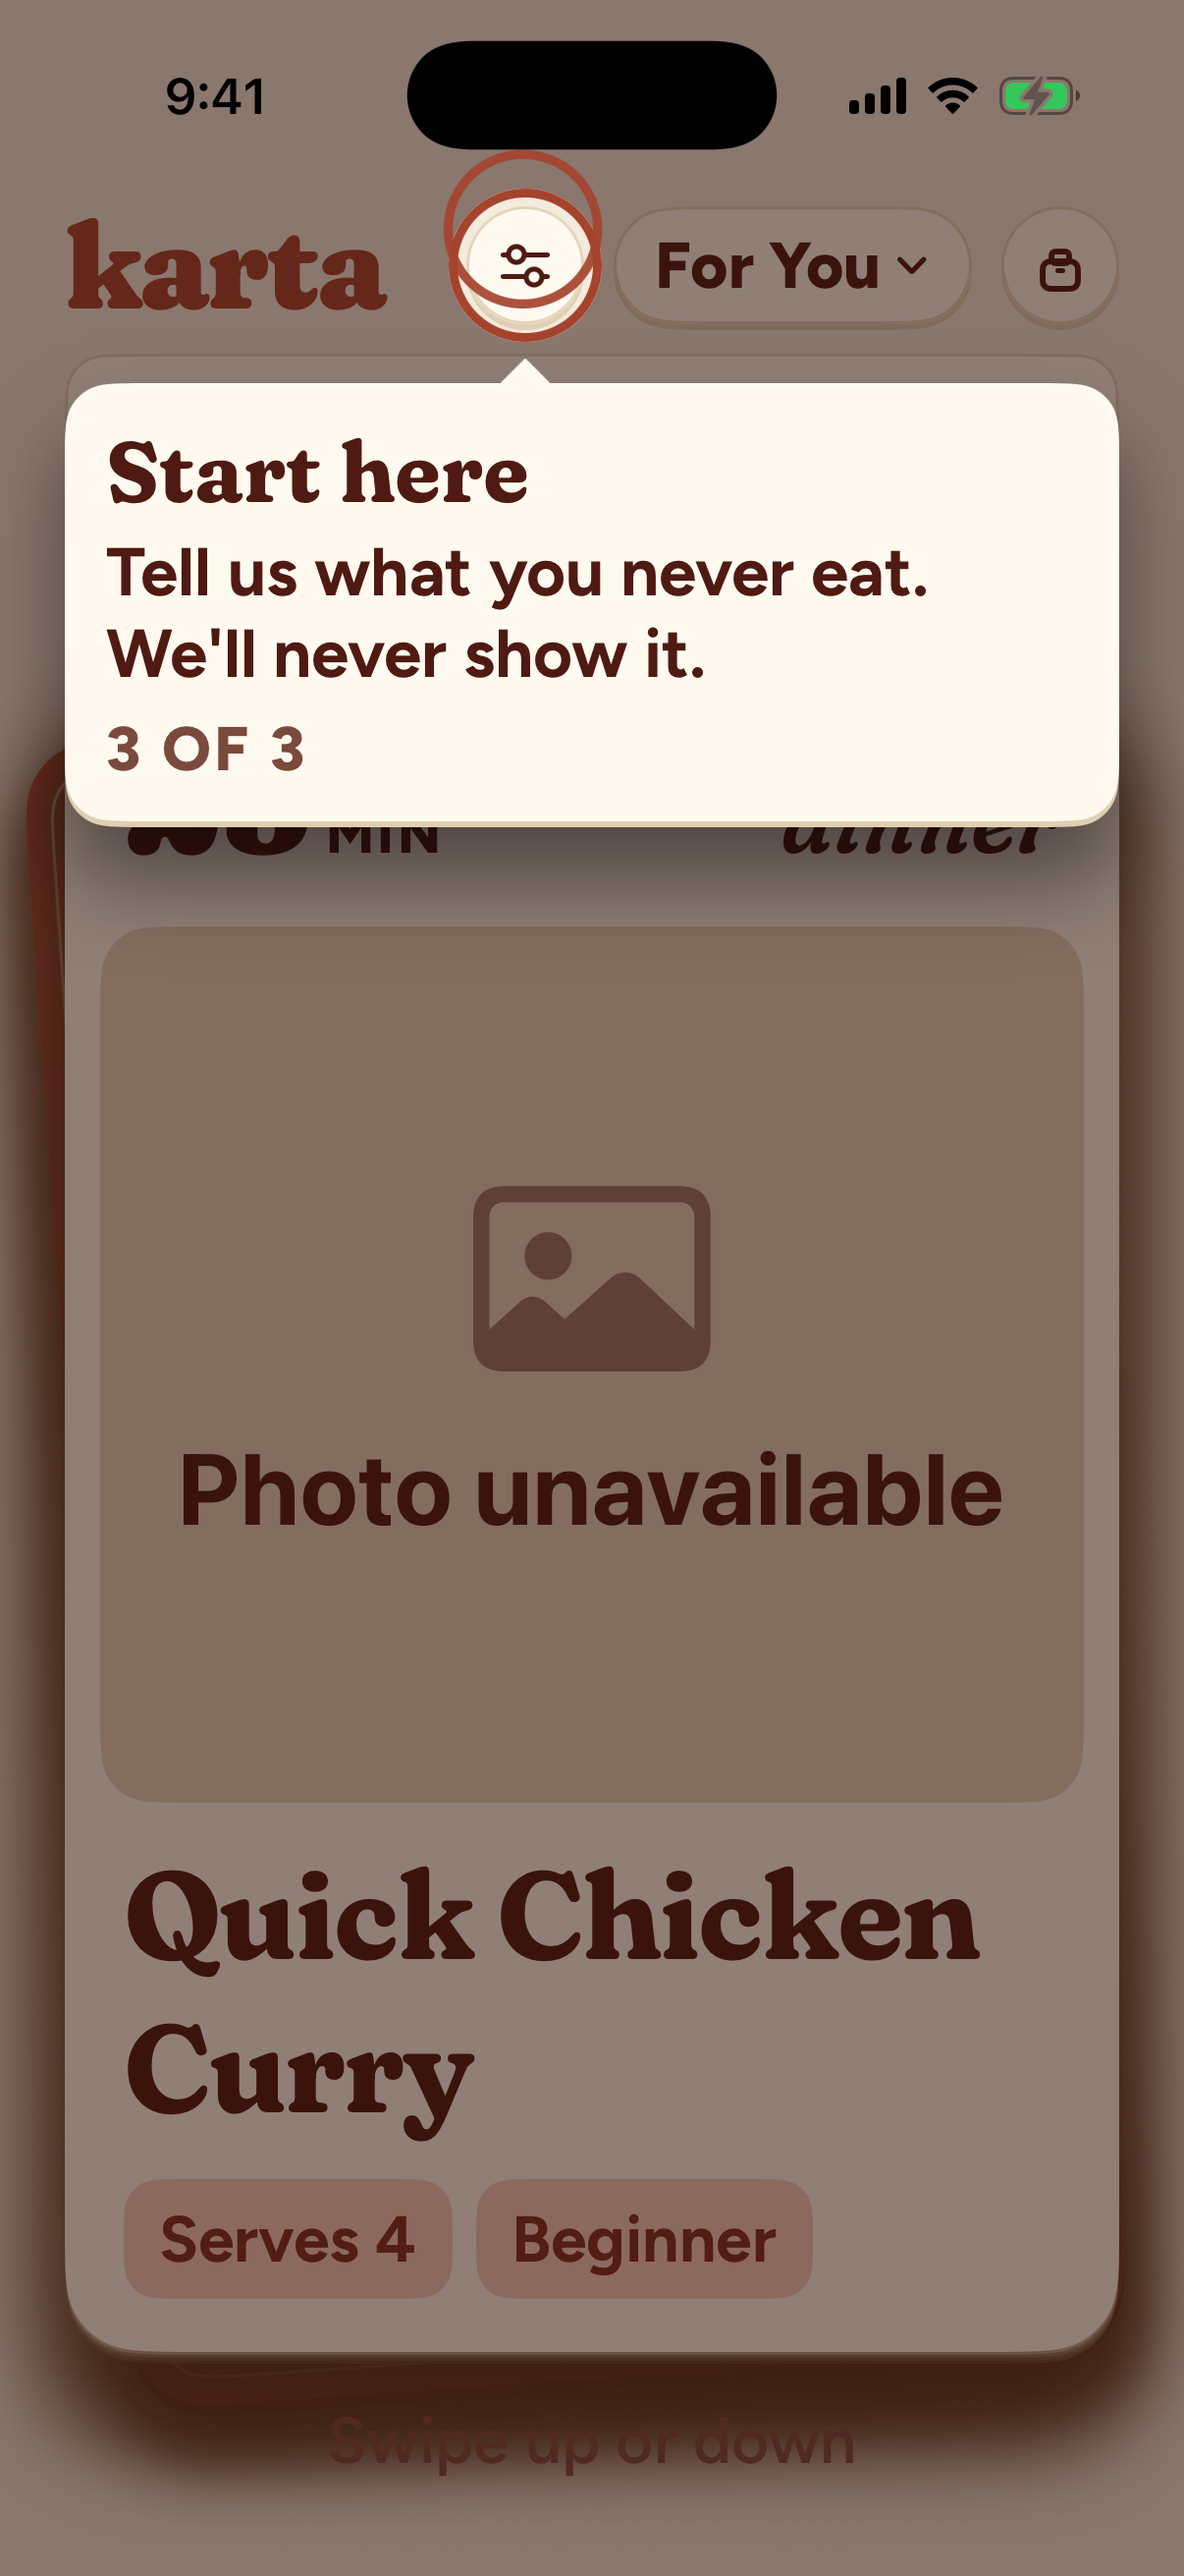
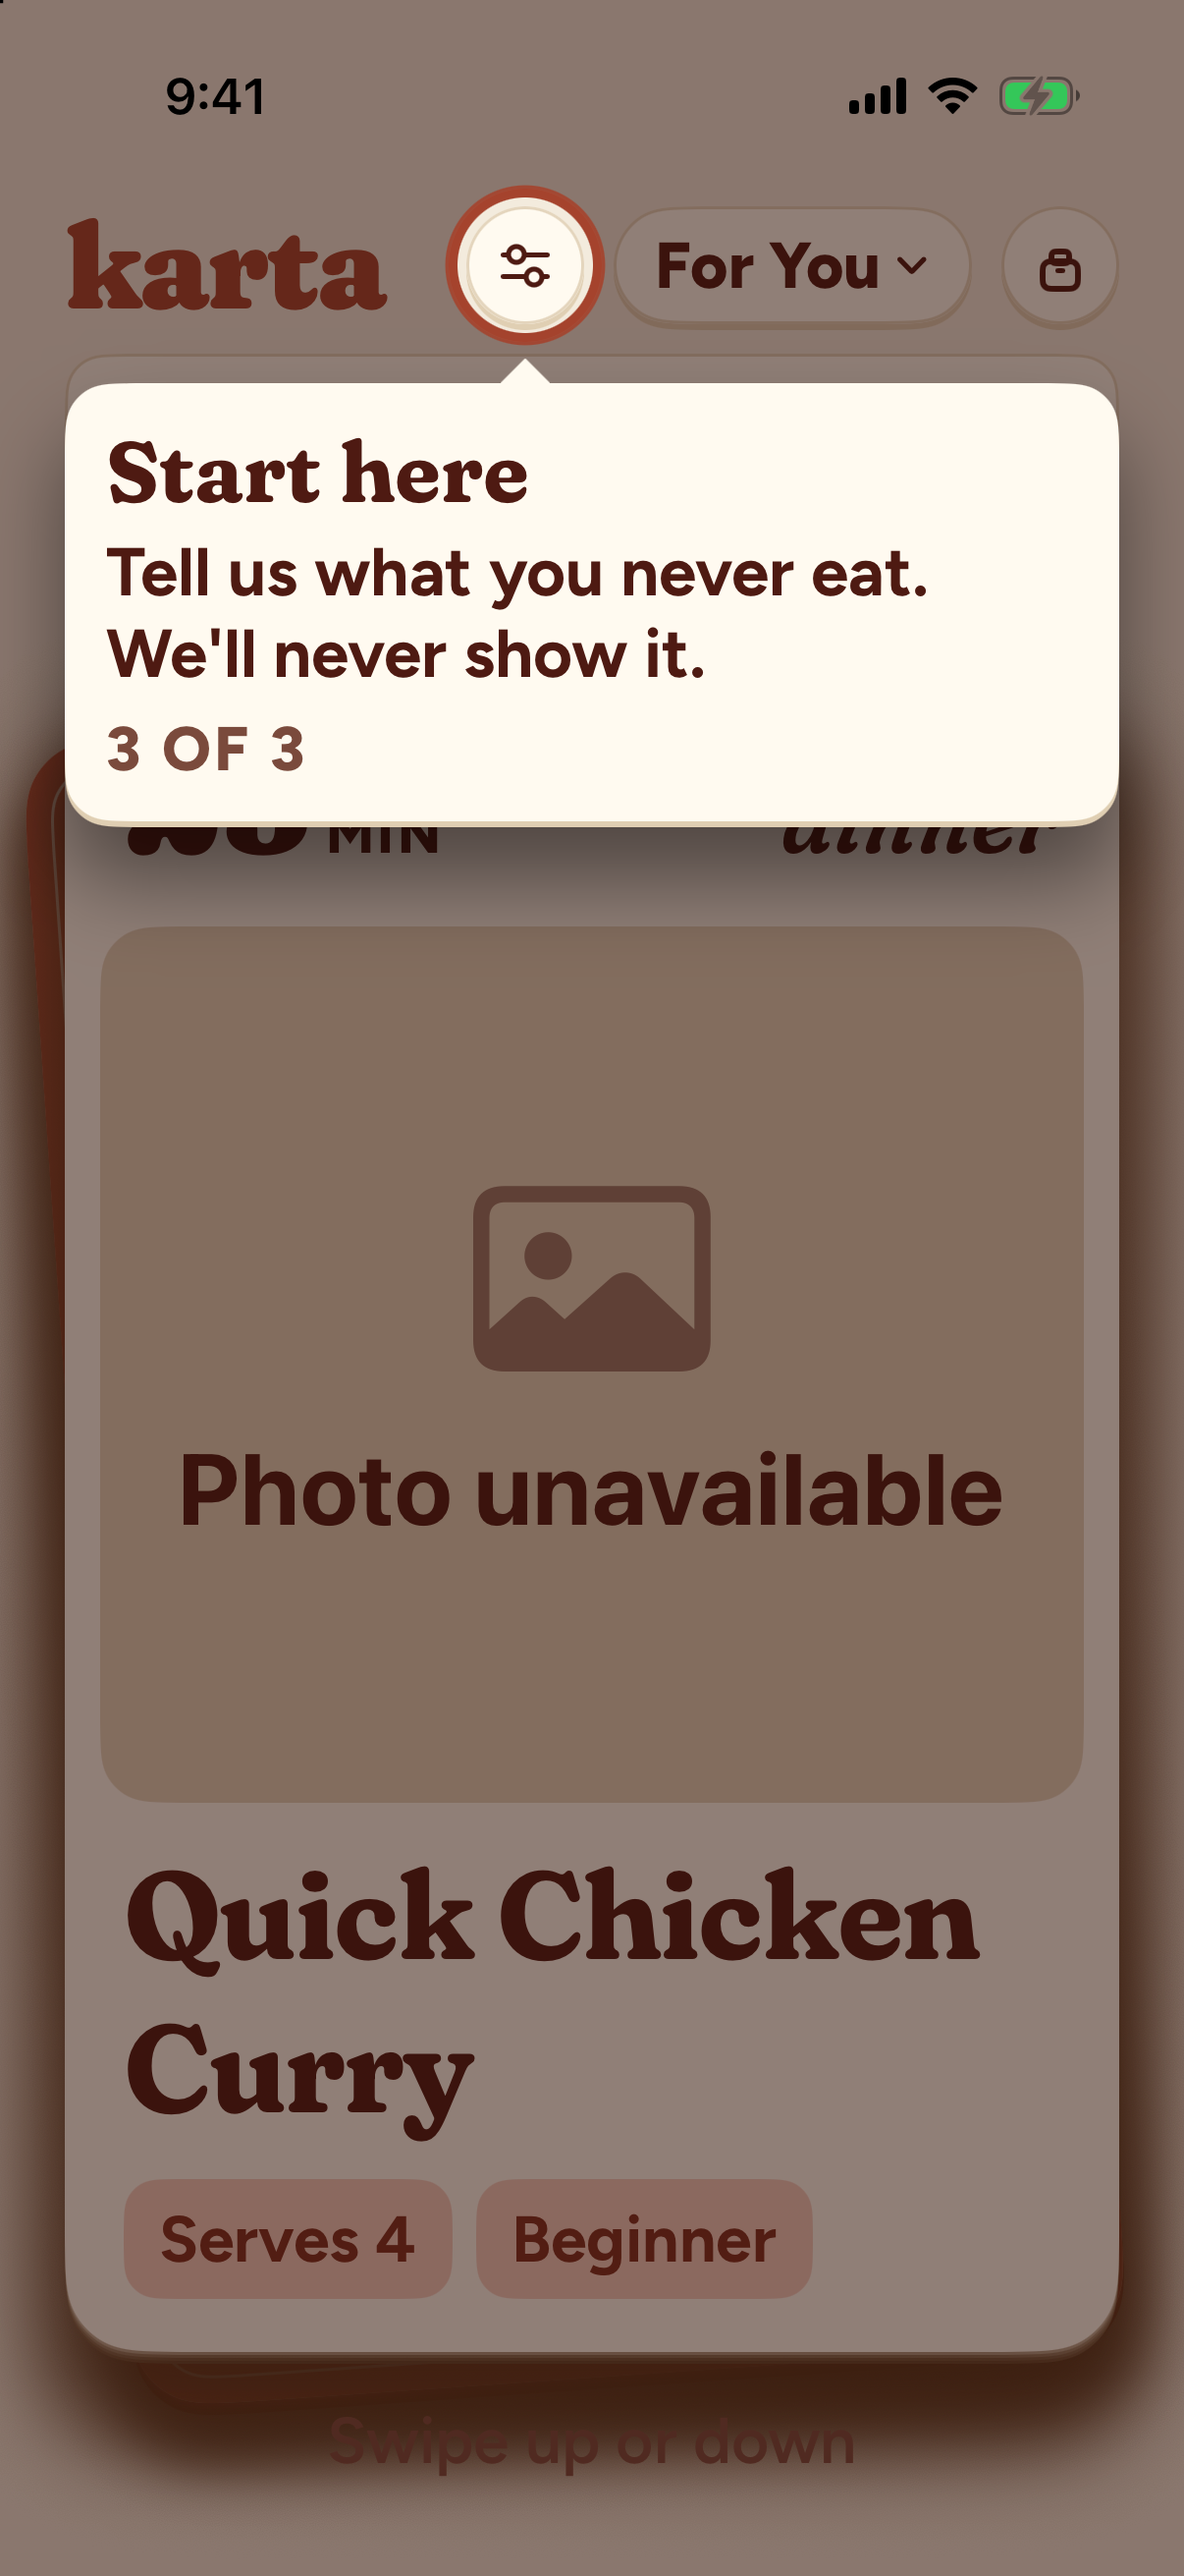
Retake tour stop-3 shots after the pulse fix; record tested SHA

Changed region(s): [[0.3375, 0.0, 0.675, 0.1236]]

diff --git a/Karta/Documentation/Issue172/README.md b/Karta/Documentation/Issue172/README.md
@@ -3,7 +3,7 @@
 Simulator: iPhone 17 (iOS simulator runtime from Xcode 27.0 RC;
 `/Applications/Xcode-27.0-RC.app`).
 Xcode: 27.0 (Release Candidate).
-Tested commit: `f1d45d1ae1671245d07d1b09bb9799b89f4e1270` (the shots were
+Tested commit: `ce912f7db4ba343983edc08c60ba594759d64a05` (the shots were
 taken against that build; this README line was filled in afterwards).
 
 Every state is driven by `KARTA_SEED=<name>` (launched via
